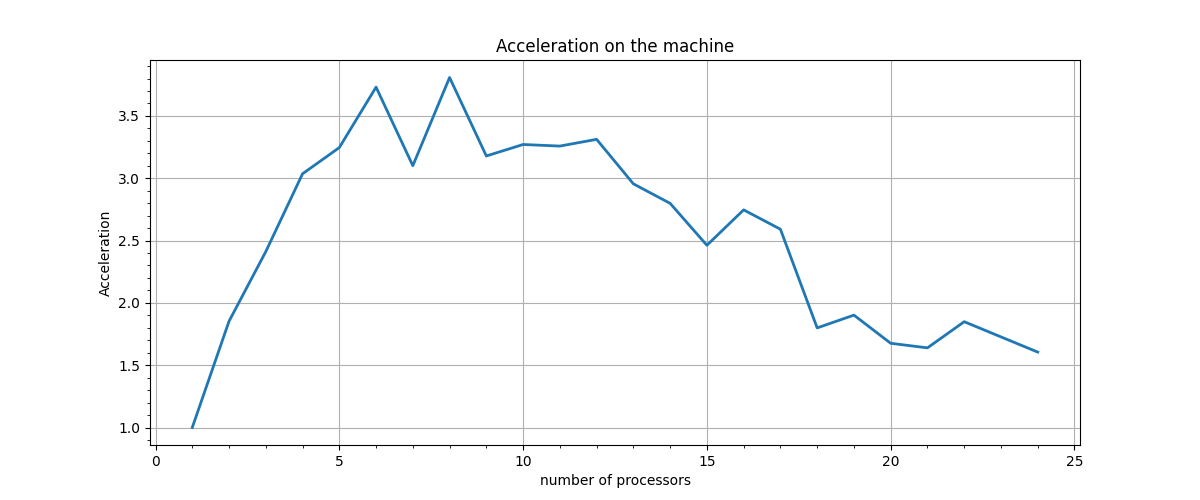
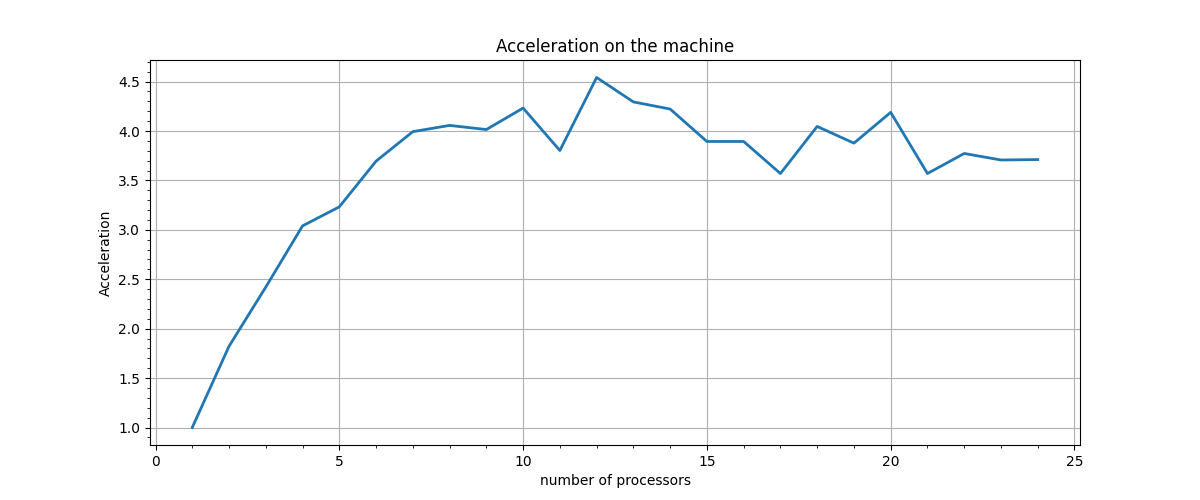
Parallel merging

diff --git a/MergeSort/main.c b/MergeSort/main.c
@@ -30,7 +30,7 @@ int main(int argc, char **argv) {
     }
     size = strtol(argv[1], NULL, 10);
     int loc_size = compute_loc(my_rank, world);
-    int *buf = (int *) malloc(loc_size * sizeof(int));
+    int *buf = (int *) malloc(2 * loc_size * sizeof(int));
     int *arr;
     if (my_rank == 0) {
         arr = generate_arr();
@@ -56,7 +56,7 @@ int main(int argc, char **argv) {
         MPI_Status status;
         MPI_Recv(
             buf,
-            loc_size,
+            2 * loc_size,
             MPI_INT,
             0,
             MPI_ANY_TAG,
@@ -85,11 +85,11 @@ int main(int argc, char **argv) {
                 int src = my_rank + base / 2;
                 if (src < world) {
                     int message_len = (loc_size + 1) * base;
-                    int *message_from = (int *) malloc(message_len * sizeof(int));
+                    int *message_from = (int *) malloc(4 * message_len * sizeof(int));
                     MPI_Status status;
                     MPI_Recv(
                             message_from,
-                            message_len,
+                            4 * message_len,
                             MPI_INT,
                             src,
                             MPI_ANY_TAG,
@@ -129,12 +129,12 @@ int main(int argc, char **argv) {
         int res_size = loc_size;
         for (int i = 1; i < world; i *= 2) {
             int message_len = (loc_size + 1) * (i + 1);
-            int* message_from = (int *) malloc(message_len * sizeof(int));
+            int* message_from = (int *) malloc(2 * message_len * sizeof(int));
             MPI_Status status;
             MPI_Recv
             (
                 message_from,
-                message_len,
+                2 * message_len,
                 MPI_INT,
                 MPI_ANY_SOURCE,
                 MPI_ANY_TAG,

diff --git a/MergeSort/complexity.py b/MergeSort/complexity.py
@@ -15,7 +15,7 @@ os.system("make")
 resultes = []
 sizes = []
 while int(size) < 5 * (10 ** 7):
-    cmd = "mpirun -np " + str(threads) + " ./main " + size
+    cmd = "mpirun -np " + str(threads) + " --oversubscribe ./main " + size
     result = subprocess.check_output(cmd, shell=True, text=True)
     print("size of array = %s: time = %ss" % (size, result))
     sizes.append(int(size))

diff --git a/MergeSort/graph.py b/MergeSort/graph.py
@@ -15,7 +15,7 @@ arr = []
 myrange = range(1, 25)
 
 for i in myrange:
-    cmd = "mpirun -np " + str(i) + " ./main " + size
+    cmd = "mpirun -np " + str(i) + " --oversubscribe ./main " + size
     result = subprocess.check_output(cmd, shell=True, text=True)
     print("num = %s: time = %ss" % (str(i), result))
     arr.append(float(result))
